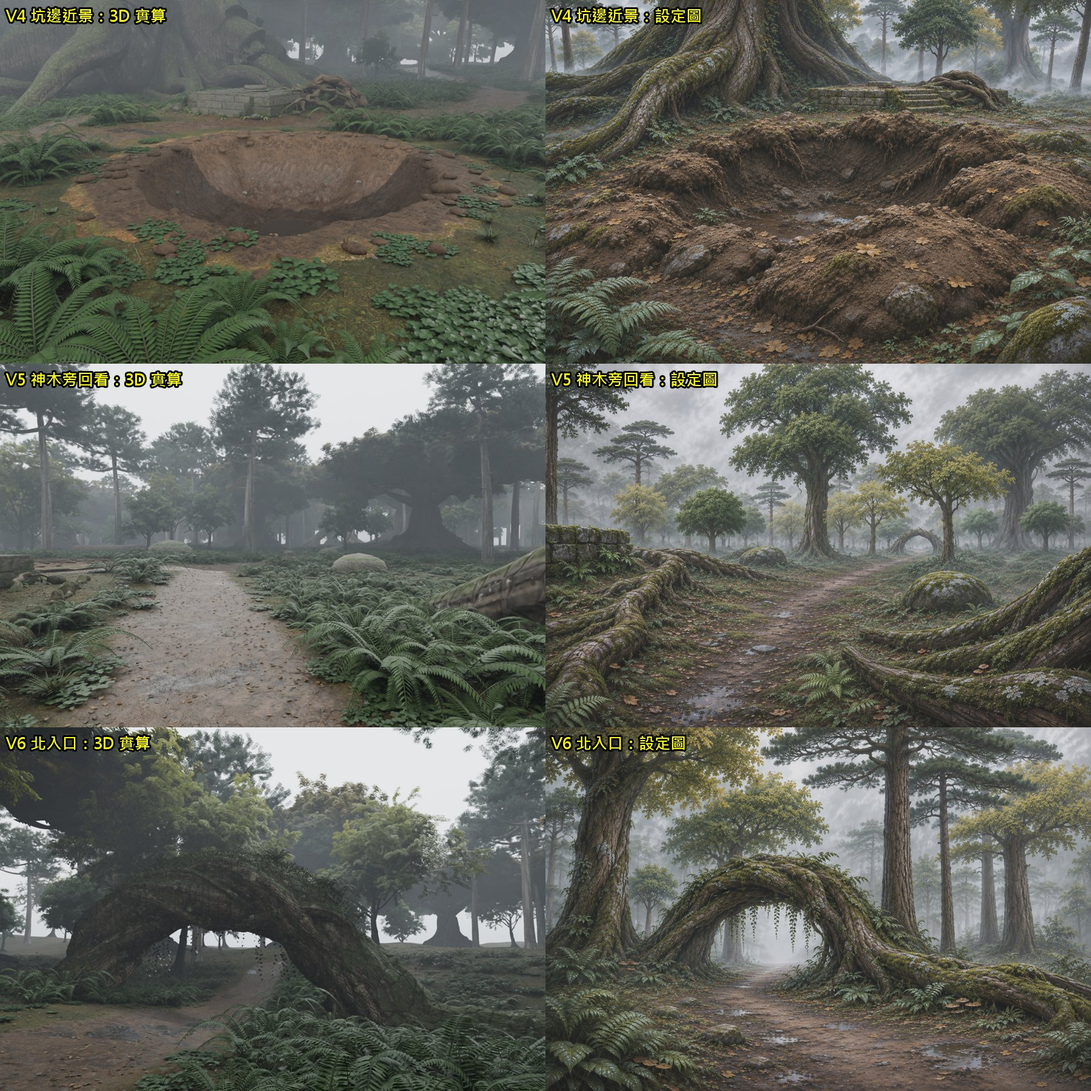
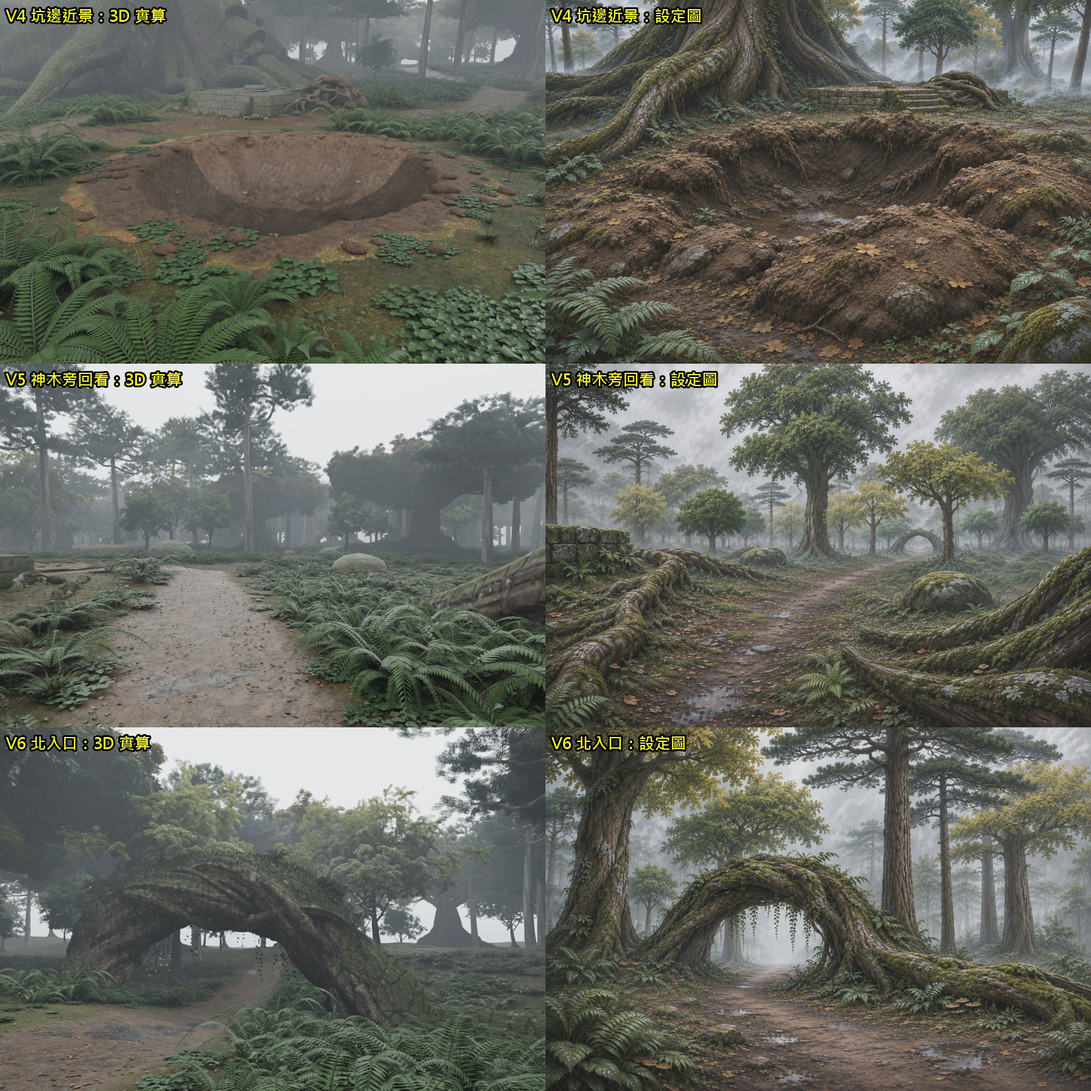
D2: three umbrella pine variants (21/25/28 m) with random tilt and height

diff --git a/art/source/core-d2-v1/d2_plan.py b/art/source/core-d2-v1/d2_plan.py
@@ -609,7 +609,7 @@ def giant(x, y, s):
 
 KIND = {'P': pine, 'B': broad, 'M': roundt, 'G': giant}
 if 'real' in argv:     # 換成真的樹模型（collection instance）
-    _LIB = {'P': ['umbrella_pine_lib'], 'B': ['broadleaf_B_lib'], 'M': ['broadleaf_M_lib'], 'G': ['godtree_t10a', 'godtree_t10b', 'godtree_t10c']}
+    _LIB = {'P': ['umbrella_pine_lib', 'umbrella_pine_lib2', 'umbrella_pine_lib3'], 'B': ['broadleaf_B_lib'], 'M': ['broadleaf_M_lib'], 'G': ['godtree_t10a', 'godtree_t10b', 'godtree_t10c']}
     _SK = lambda nm: nm in ('Grid', 'Cube') or nm.startswith(('Cylinder', 'Camera', 'Sun', 'Human'))
     _COLS = {}
     for _k, _fs in _LIB.items():
@@ -630,7 +630,9 @@ if 'real' in argv:     # 換成真的樹模型（collection instance）
             e.instance_collection = R.choice(_COLS[k])
             s = s * (.62 if k == 'G' else 1.0)    # 巨木庫是神木做法、樹冠很寬；縮到設定圖裡的比例
             e.scale = (s, s, s * R.uniform(.94, 1.06))
-            e.rotation_euler.z = R.uniform(0, 6.283)
+            e.rotation_euler = (R.uniform(-.05, .05), R.uniform(-.05, .05), R.uniform(0, 6.283)) if k == 'P' else (0, 0, R.uniform(0, 6.283))   # 松樹微微傾斜、不整齊
+            if k == 'P':
+                e.scale = (s, s, s * R.uniform(.82, 1.15))
             e.location = (x, y, gh(x, y) - .25)
             sc.collection.objects.link(e)
         return f
